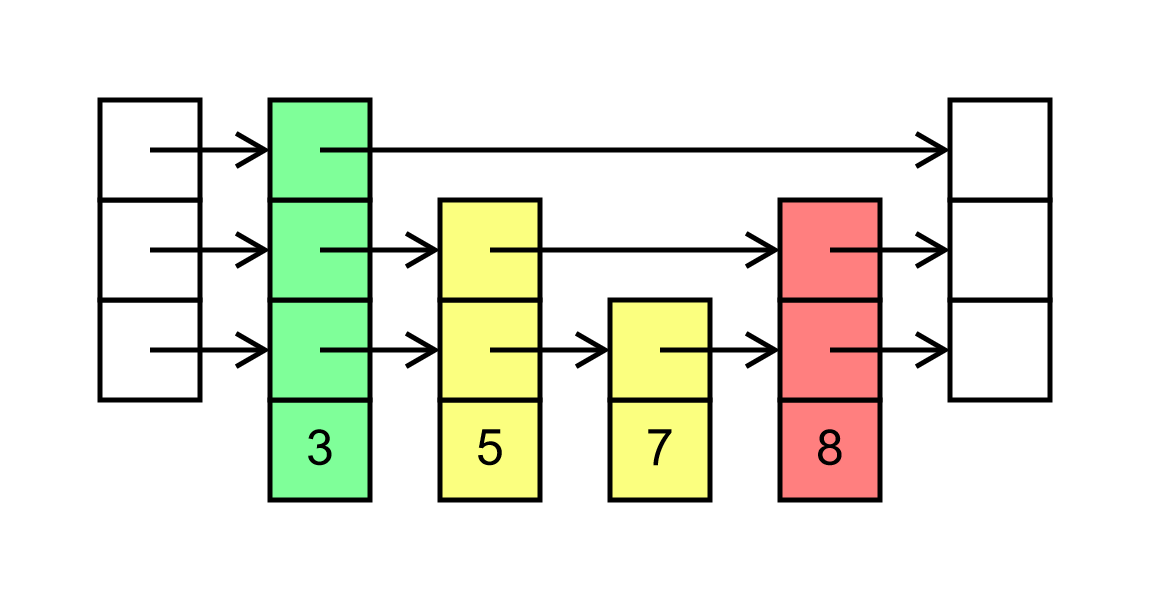
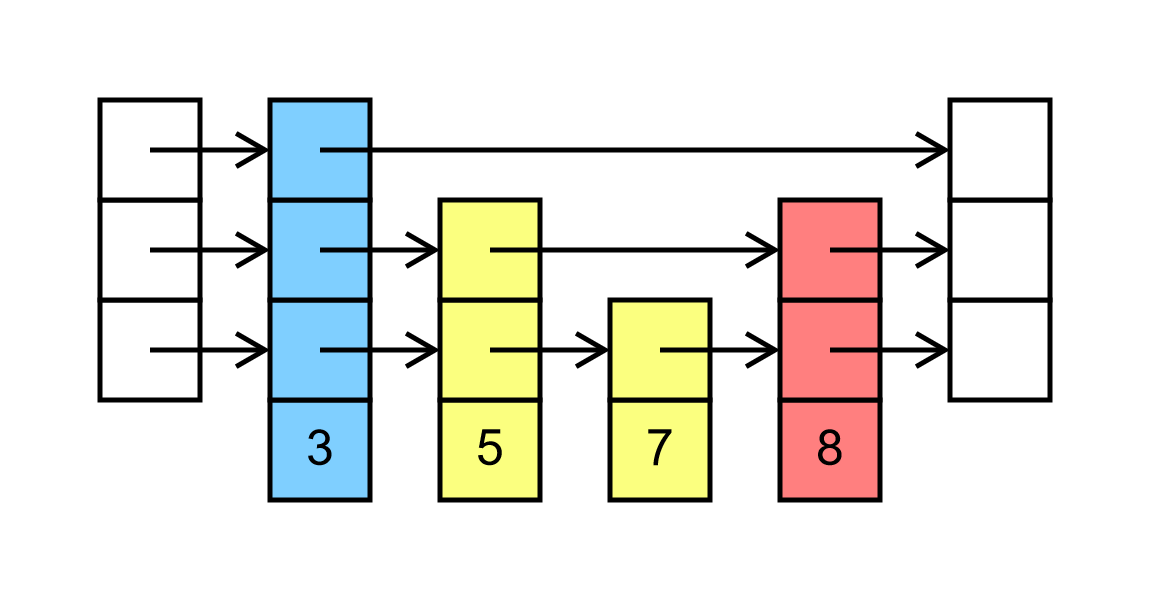
tutorium09: second revision + improved solution

Changed region(s): [[0.213, 0.15, 0.3348, 0.84]]

diff --git a/tutorium09/skip_list_visualization/index.js b/tutorium09/skip_list_visualization/index.js
@@ -35,7 +35,7 @@ document.querySelectorAll(".list").forEach(el => {
     for (const node of nodes) {
         ctx.fillStyle = "white";
         if (green.includes(node[0])) {
-            ctx.fillStyle = "#7fff99";
+            ctx.fillStyle = "#7fcfff";
         }
         if (red.includes(node[0])) {
             ctx.fillStyle = "#ff7f7f";

diff --git a/tutorium09/tutorium09.tex b/tutorium09/tutorium09.tex
@@ -39,21 +39,21 @@ Bei Fragen oder Unklarheiten kontaktieren Sie bitte den Tutor oder Dozenten in T
         Es werden $150$ Werte mithilfe einer gleichmäßig verteilenden Hashfunktion eingefügt.
         Berechnen Sie die Wahrscheinlichkeit, dass ein bestimmter Platz der Tabelle nach dem Einfügen genau ein Element enthält.
         \item Sei $X$ die Anzahl der Plätze der obigen Tabelle, die nach Einfügen von 150 Werten genau ein Element enthalten.
-        Berechnen Sie $E[X]$ mithilfe des 5-Punkte-Plans und des Ergebnisses der vorherigen Teilaufgabe (Wenn Sie die vorherige Aufgabe nicht lösen konnten, verwenden Sie $P(\text{ein Element}) = \frac{1}{3}$).
+        Berechnen Sie $E[X]$ mithilfe des \quotes{5-Punkte-Plans} und des Ergebnisses der vorherigen Teilaufgabe~(Wenn Sie die vorherige Aufgabe nicht lösen konnten, verwenden Sie $P(\text{ein Element}) = \frac{1}{3}$).
     \end{enumerate}
 \end{aufgabe}
 
 \begin{loesung}
     \begin{enumerate}
         \item Betrachten wir zunächst den Fall, dass der erste der 150 Werte in den gewünschten Platz einsortiert wird und alle weiteren 149 Elemente in einen anderen.
-        Die Wahrscheinlichkeit, dass ein Wert in den richtigen Platz einsortiert wird, ist $\frac{1}{100}$, die Wahrscheinlichkeit, dass es ein anderer Platz ist, $\frac{99}{100}$.
+        Die Wahrscheinlichkeit, dass ein Wert in den rich\-ti\-gen Platz einsortiert wird, ist $\frac{1}{100}$, die Wahrscheinlichkeit, dass es ein anderer Platz ist, $\frac{99}{100}$.
         Da alle Werte unabhängig voneinander einsortiert werden, können die Wahrscheinlichkeiten für alle Werte einfach multipliziert werden.
         Die Wahrscheinlichkeit dafür, dass der erste der 150 Werte in den gewünschten Platz einsortiert wird und alle weiteren 149 Elemente in einen anderen, beträgt also $\frac{1}{100}\cdot \left(\frac{99}{100}\right)^{149}$.
 
         Jetzt muss der eine Wert, der in den gewünschten Platz einsortiert wird, aber nicht unbedingt der erste sein, sondern es kann jeder der 150 Werte sein.
         Da sich die Wahrscheinlichkeiten der einzelnen Plätze jedoch für die anderen Werte nicht ändern, gilt die obige Wahrscheinlichkeit für alle 150 Werte.
 
-        Es muss noch die Wahrscheinlichkeit berechnet werden, dass mindestens eines der obigen 150 Ereignisse eintritt.
+        Es muss nur noch die Wahrscheinlichkeit berechnet werden, dass mindestens eines der obigen 150 Ereignisse eintritt.
         Allerdings sind alle Ereignisse disjunkt (es kann maximal eines eintreten).
         Daher reicht es, alle 150 Wahrscheinlichkeiten aufzusummieren.
         Das finale Ergebnis ist also $150 \cdot \frac{1}{100}\cdot \left(\frac{99}{100}\right)^{149} \approx 33.6\%$. 
@@ -103,7 +103,7 @@ Bei Fragen oder Unklarheiten kontaktieren Sie bitte den Tutor oder Dozenten in T
         % 0, 1
         % 1, 2
         % 4, 1
-        \item Zeigen Sie mittels des 5-Punkte-Plans, dass die erwartete Höhe eines Werte einer Skip-Liste 2 beträgt, indem Sie die folgenden Zählvariablen verwenden:
+        \item Zeigen Sie mittels des \quotes{5-Punkte-Plans}, dass die erwartete Höhe eines Wertes einer Skip-Liste 2 beträgt, indem Sie die folgenden Zählvariablen verwenden:
         \begin{equation*}
             X_i = \begin{cases}
                 1 & \text{der Wert hat mindestens Höhe $i$} \\
@@ -121,7 +121,7 @@ Bei Fragen oder Unklarheiten kontaktieren Sie bitte den Tutor oder Dozenten in T
 
 \begin{loesung}
     \begin{enumerate}
-        \item \ \\
+        \item Im folgenden sind Knoten, auf die lesend zugegriffen wird, blau, Knoten, auf die schreibend zugegriffen wird, rot, und Knoten, auf die sowohl lesend als auch schreibend zugegriffen wird, gelb markiert.
         \begin{figure}[h!]
             \centering
             \begin{subfigure}[b]{0.3\textwidth}
@@ -219,15 +219,15 @@ Bei Fragen oder Unklarheiten kontaktieren Sie bitte den Tutor oder Dozenten in T
             \item[Einfügen] 
             Beim Einfügen wird ja entlang der Zeiger in der Skip-Liste gesprungen, um die Position zu erreichen, an die der Wert eingefügt werden soll.
             Durch die zusätzlichen Werte, die beschreiben, wie viele Werte bei jedem Springen übersprungen werden, kann man leicht feststellen, an welche Position der neue Wert eingefügt wird, indem man die Werte für alle Zeiger, die fürs Einfügen durchlaufen werden, aufsummiert und dazu noch alle Knoten mitzählt, die man fürs Einfügen passiert.
-            Anschließend geht man erneut den Weg zum eingefügten Knoten.
+            Nach dem Einfügen geht man erneut den Weg zum eingefügten Knoten.
             Die Werte zu allen Zeigern, die den eingefügten Knoten überspringen, erhöht man um 1.
             Für jeden Zeiger, den man zuvor beim Einfügen aktualisiert hat, kennt man durch das oben beschriebene Verfahren die Position des zugehörigen Knotens.
-            Aus dem ursprünglichen Überspring-Wert des Zeigers, dessen Position und der Position des eingefügten Wertes kann man die Werte der beiden neuen Werte leicht berechnen.
+            Aus dem ursprünglichen Überspring-Wert des Zeigers, dessen Position und der Position des eingefügten Wertes kann man die beiden neuen Werte leicht berechnen.
             Dabei geht man wie in folgendem Beispiel vor:
             Ein Zeiger des Knotens an Position 3 übersprang vor dem Einfügen 10 Werte und zeigte somit auf Position 14 ($=3 + 10 + 1$).
             Jetzt wurde ein neuer Wert an Position 7 eingefügt und der Zeiger zeigt auf diesen eingefügten Wert.
             Damit überspringt der Zeiger nun $7 - 3 - 1 = 4$ Werte.
-            Der neue Wert (an Position 7) zeigt ja jetzt auf Position 14 und überspringt dadurch $14 - 7 - 1 = 6$.
+            Der neue Wert (an Position 7) zeigt ja jetzt auf Position 14 und überspringt dadurch $14 - 7 - 1 = 6$ Werte.
             
             Man muss den Pfad zum eingefügten Wert also nur zweimal durchlaufen.
             An jeder Position des Pfads wird weiterhin nur konstante Laufzeit benötigt.
@@ -300,10 +300,10 @@ int kthSmallestValue(SkipList *list, int k) {
 \begin{aufgabe}{3}{Textsuche}
     \begin{enumerate}[label=\alph*)]
         \item Betrachten Sie das Muster \texttt{BEENDEN}.
-        Wie ist die \texttt{shift}-Funktion für dieses Muster bei Verwendung der Bad-Character-Strategie definiert?
+        Wie ist die \texttt{shift}-Funktion für dieses Muster mit $\Sigma = \{A, B, \ldots, Z\}$ bei Verwendung der Bad-Character-Strategie definiert?
         Sie dürfen alle Zeichen, die nicht im Muster enthalten sind, zusammenfassen.
         \item Betrachten Sie die Muster \texttt{KENNEN} und \texttt{NENNEN}.
-        Geben Sie für jede Position des Musters an, um viel viele Zeichen das Muster gemäß der Good-Suffix-Strategie verschoben werden darf, wenn es an dieser Position zu einer Nichtübereinstimmung kommt.
+        Geben Sie für beide Muster und für jede Position an, um viel viele Zeichen das jeweilige Muster gemäß der Good-Suffix-Strategie verschoben werden darf, wenn es an dieser Position zu einer Nichtübereinstimmung kommt.
         \item Suchen Sie das Muster \texttt{TAGCAGC} in der Zeichenkette \texttt{TATGCAAGCTGCCATGCTGTAGCAGC} mittels Naiver Suche und mithilfe des Boyer-Moore-Algorithmus inklusive bad-character und good-suffix.
         Wie viele Vergleiche benötigen Sie jeweils?
         \item 
@@ -365,7 +365,7 @@ int kthSmallestValue(SkipList *list, int k) {
         Beschreiben Sie den Automaten eindeutig, zum Beispiel, indem Sie dessen Transitionsgraph angeben.
         \item Betrachten Sie folgenden Suchalgorithmus:
         Sämtliche Teilstrings des zu durchsuchenden Texts werden in einer Hashtabelle abgespeichert (bei \quotes{abc} also z.B. \quotes{a}, \quotes{b}, \quotes{c}, \quotes{bc}, \quotes{ab}, \quotes{abc}).
-        Wenn nun überprüft werden soll, ob ein Muster im Text enthalten ist, muss anschließend nur überprüft werden, ob das Muster in der Hashtabelle liegt.
+        Wenn nun ein Muster im Text gesucht werden soll, muss nur überprüft werden, ob das Muster in der Hashtabelle liegt.
         Geben Sie folgende Funktionen in $O$-Notation an, jeweils abhängig von der Länge des Textes $n$ und der Länge des Musters $m$:
         \begin{enumerate}[label=\roman*)]
             \item die durchschnittliche Laufzeit zum Erstellen der Hashtabelle,
@@ -378,9 +378,10 @@ int kthSmallestValue(SkipList *list, int k) {
             \item[Hinweis 2:] Die durchschnittliche Länge aller Teilstrings eines Strings der Länge $n$ beträgt $\Theta(n)$.
         \end{description}
         \item Ein Anagramm eines Wortes ist eine beliebige Permutation der Buchstaben dieses Wortes.
+        Zum Beispiel ist \texttt{REIFEN} ein Anagramm von \texttt{FERIEN}.
         Implementieren Sie einen Algorithmus in Pseudocode oder einer Programmiersprache Ihrer Wahl, welcher einen Text sowie ein Muster als Eingabe erhält, und ausgibt, wie viele Anagramme des eingegebenen Musters im Text vorkommen.
         Die Laufzeit des Algorithmus soll $O(n \cdot |\Sigma|)$ betragen, wobei $n$ die Länge des Textes ist und $|\Sigma|$ die Größe des Alphabets.
-        Weisen Sie nach, dass Ihr Algorithmus die angegebene Laufzeit besitzt.
+        Argumentieren Sie, warum Ihr Algorithmus die angegebene Laufzeit besitzt.
         \begin{description}
             \item[Tipp:] Zählen Sie, wie oft jedes Zeichen des Alphabets im Muster vorkommt.
         \end{description}
@@ -532,8 +533,8 @@ LEBE\underline{N}
         Bei naiver Suche wird an jeder Position bereits nach einem Vergleich erkannt, dass sich das Muster nicht an der Position befindet.
         Das macht insgesamt 11 Vergleiche.
         Bei Boyer-Moore wird an einer Position erst nach 5 Vergleichen erkannt, dass sich das Muster nicht an der Position befindet.
-        Durch die Bad-Character-Strategie wird das Muster aber wieder nur eine Position nach rechts verschoben (wenn zusätzlich noch Good-Suffix verwendet worden wäre, wären es 5 Positionen, also genau so gut wie bei naiver Suche).
-        Es werden also 55 Vergleiche benötigt.
+        Durch die Bad-Character-Strategie wird das Muster aber wieder nur eine Position nach rechts verschoben (wenn zusätzlich noch Good-Suffix verwendet worden wäre, wären es 5 Positionen, genau so gut wie bei naiver Suche).
+        Es werden also insgesamt 55 Vergleiche benötigt.
 
         Die obige Eingabe lässt sich natürlich leicht auf $\text{\texttt{a}}^n$ und $\text{\texttt{b}}\text{\texttt{a}}^{m - 1}$ verallgemeinern.
         Wir schätzen die Laufzeit anhand der Anzahl von benötigten Vergleichen ab:
@@ -544,55 +545,57 @@ LEBE\underline{N}
         \begin{figure}[h!]
             \centering
             \begin{tikzpicture}[scale=0.15]
-            \tikzstyle{every node}+=[inner sep=0pt]
-            \draw [black] (7.8,-28.7) circle (3);
-            \draw (7.8,-28.7) node {$0$};
-            \draw [black] (17.6,-28.7) circle (3);
-            \draw (17.6,-28.7) node {$1$};
-            \draw [black] (27.6,-28.7) circle (3);
-            \draw (27.6,-28.7) node {$2$};
-            \draw [black] (37.6,-28.7) circle (3);
-            \draw (37.6,-28.7) node {$3$};
-            \draw [black] (47.4,-28.7) circle (3);
-            \draw (47.4,-28.7) node {$4$};
-            \draw [black] (57.3,-28.7) circle (3);
-            \draw (57.3,-28.7) node {$5$};
-            \draw [black] (67.5,-28.7) circle (3);
-            \draw (67.5,-28.7) node {$6$};
-            \draw [black] (67.5,-28.7) circle (2.4);
-            \draw [black] (10.8,-28.7) -- (14.6,-28.7);
-            \fill [black] (14.6,-28.7) -- (13.8,-28.2) -- (13.8,-29.2);
-            \draw (12.7,-29.2) node [below] {$a$};
-            \draw [black] (20.6,-28.7) -- (24.6,-28.7);
-            \fill [black] (24.6,-28.7) -- (23.8,-28.2) -- (23.8,-29.2);
-            \draw (22.6,-29.2) node [below] {$b$};
-            \draw [black] (30.6,-28.7) -- (34.6,-28.7);
-            \fill [black] (34.6,-28.7) -- (33.8,-28.2) -- (33.8,-29.2);
-            \draw (32.6,-29.2) node [below] {$c$};
-            \draw [black] (40.6,-28.7) -- (44.4,-28.7);
-            \fill [black] (44.4,-28.7) -- (43.6,-28.2) -- (43.6,-29.2);
-            \draw (42.5,-29.2) node [below] {$a$};
-            \draw [black] (50.4,-28.7) -- (54.3,-28.7);
-            \fill [black] (54.3,-28.7) -- (53.5,-28.2) -- (53.5,-29.2);
-            \draw (52.35,-29.2) node [below] {$b$};
-            \draw [black] (60.3,-28.7) -- (64.5,-28.7);
-            \fill [black] (64.5,-28.7) -- (63.7,-28.2) -- (63.7,-29.2);
-            \draw (62.4,-29.2) node [below] {$a$};
-            \draw [black] (30.14,-27.105) arc (119.68121:60.31879:35.16);
-            \fill [black] (30.14,-27.11) -- (31.08,-27.14) -- (30.59,-26.27);
-            \draw (47.55,-21.99) node [above] {$b$};
-            \draw [black] (55.521,-31.104) arc (-44.1396:-135.8604:11.246);
-            \fill [black] (39.38,-31.1) -- (39.58,-32.03) -- (40.3,-31.33);
-            \draw (47.45,-35.02) node [below] {$c$};
-            \draw [black] (19.232,-26.232) arc (130.08425:49.91575:5.23);
-            \fill [black] (19.23,-26.23) -- (20.17,-26.1) -- (19.52,-25.33);
-            \draw (22.6,-24.5) node [above] {$a$};
-            \draw [black] (15.044,-27.152) arc (266.53724:-21.46276:2.25);
-            \draw (13.02,-22.51) node [above] {$a$};
-            \fill [black] (17.27,-25.73) -- (17.82,-24.96) -- (16.82,-24.9);
-            \draw [black] (45.847,-31.262) arc (-36.40307:-143.59693:16.583);
-            \fill [black] (19.15,-31.26) -- (19.23,-32.2) -- (20.03,-31.61);
-            \draw (32.5,-38.5) node [below] {$a$};
+                \tikzstyle{every node}+=[inner sep=0pt]
+                \draw [black] (10.2,-24.9) circle (3);
+                \draw (10.2,-24.9) node {$0$};
+                \draw [black] (20.4,-24.9) circle (3);
+                \draw (20.4,-24.9) node {$1$};
+                \draw [black] (31.1,-24.9) circle (3);
+                \draw (31.1,-24.9) node {$2$};
+                \draw [black] (41.7,-24.9) circle (3);
+                \draw (41.7,-24.9) node {$3$};
+                \draw [black] (52,-24.9) circle (3);
+                \draw (52,-24.9) node {$4$};
+                \draw [black] (62.5,-24.9) circle (3);
+                \draw (62.5,-24.9) node {$5$};
+                \draw [black] (72.8,-24.9) circle (3);
+                \draw (72.8,-24.9) node {$6$};
+                \draw [black] (13.2,-24.9) -- (17.4,-24.9);
+                \fill [black] (17.4,-24.9) -- (16.6,-24.4) -- (16.6,-25.4);
+                \draw (15.3,-25.4) node [below] {$a$};
+                \draw [black] (23.4,-24.9) -- (28.1,-24.9);
+                \fill [black] (28.1,-24.9) -- (27.3,-24.4) -- (27.3,-25.4);
+                \draw (25.75,-25.4) node [below] {$b$};
+                \draw [black] (34.1,-24.9) -- (38.7,-24.9);
+                \fill [black] (38.7,-24.9) -- (37.9,-24.4) -- (37.9,-25.4);
+                \draw (36.4,-25.4) node [below] {$c$};
+                \draw [black] (44.7,-24.9) -- (49,-24.9);
+                \fill [black] (49,-24.9) -- (48.2,-24.4) -- (48.2,-25.4);
+                \draw (46.85,-25.4) node [below] {$a$};
+                \draw [black] (55,-24.9) -- (59.5,-24.9);
+                \fill [black] (59.5,-24.9) -- (58.7,-24.4) -- (58.7,-25.4);
+                \draw (57.25,-25.4) node [below] {$b$};
+                \draw [black] (65.5,-24.9) -- (69.8,-24.9);
+                \fill [black] (69.8,-24.9) -- (69,-24.4) -- (69,-25.4);
+                \draw (67.65,-25.4) node [below] {$a$};
+                \draw [black] (22.738,-23.058) arc (115.8009:64.1991:6.919);
+                \fill [black] (22.74,-23.06) -- (23.68,-23.16) -- (23.24,-22.26);
+                \draw (25.75,-21.87) node [above] {$a$};
+                \draw [black] (17.766,-23.488) arc (269.5344:-18.4656:2.25);
+                \draw (15.53,-18.91) node [above] {$a$};
+                \fill [black] (19.92,-21.95) -- (20.43,-21.15) -- (19.43,-21.15);
+                \draw [black] (22.178,-22.488) arc (138.98447:41.01553:18.584);
+                \fill [black] (22.18,-22.49) -- (23.08,-22.21) -- (22.33,-21.56);
+                \draw (36.2,-15.6) node [above] {$a$};
+                \draw [black] (60.402,-27.035) arc (-51.00884:-128.99116:13.194);
+                \fill [black] (43.8,-27.04) -- (44.11,-27.93) -- (44.73,-27.15);
+                \draw (52.1,-30.47) node [below] {$c$};
+                \draw [black] (33.664,-23.344) arc (118.97268:61.02732:37.75);
+                \fill [black] (33.66,-23.34) -- (34.61,-23.39) -- (34.12,-22.52);
+                \draw (51.95,-18.12) node [above] {$b$};
+                \draw [black] (70.409,-26.71) arc (-54.94924:-125.05076:41.456);
+                \fill [black] (22.79,-26.71) -- (23.16,-27.58) -- (23.73,-26.76);
+                \draw (46.6,-34.73) node [below] {$a$};
             \end{tikzpicture}
         \end{figure}
         \FloatBarrier
@@ -606,9 +609,10 @@ LEBE\underline{N}
         \end{equation*}
 
         \begin{enumerate}[label=\roman*)]
-            \item Da wir die Durchschnittslaufzeit berechnen wollen, können wir davon ausgehen, dass zum Einfügen nur eine konstante Anzahl an Versuchen nötig ist.
+            \item Da wir die Durchschnittslaufzeit berechnen wollen, können wir davon ausgehen, dass pro Einfügen nur eine konstante Anzahl an Versuchen nötig ist.
             Daher sind für das Einfügen aller Teilstrings insgesamt im Durchschnitt $\Theta(n^2)$ Versuche nötig.
-            Allerdings ist die Laufzeit für Hashing und Vergleich von Strings linear in der Länge des Strings (nach Hinweis 2 $\Theta(n)$).
+            Allerdings ist die Laufzeit für Hashing und Vergleich von Strings nach Hinweis 1 linear in der Länge des Strings.
+            Die durchschnittliche Länge der Strings ist außerdem $\Theta(n)$ nach Hinweis 2.
             Die Laufzeit zum Erstellen der Tabelle beträgt also 
             \begin{equation*}
                 \underbrace{\Theta(n^2)}_{\text{Anzahl Versuche}} \cdot \underbrace{\Theta(n)}_{\text{Zeit pro Versuch}} = \Theta(n^3)
@@ -617,7 +621,7 @@ LEBE\underline{N}
             \emph{Anmerkung:} Je nach verwendeter String-Hashfunktion (siehe Aufgabe 3d von Tutoriumsblatt 8) ist es oft möglich, den Hash für zum Beispiel alle Strings, die mit dem ersten Zeichen des Textes anfangen, Zeichen für Zeichen zu erweitern, ohne den Hash jedes Mal komplett neu berechnen zu müssen.
             Mit dieser Optimierung erreicht man in der Praxis Laufzeit $\Theta(n^2)$
             \item Wir gehen erneut von einer konstanten Anzahl an Versuchen aus.
-            Jeder Versuch benötigt linearen Zeitaufwand im gesuchten String.
+            Jeder Versuch benötigt linearen Zeitaufwand in der Länge des gesuchten Strings.
             Die Laufzeit beträgt also $\Theta(m)$.
             \item Im Worst-Case müssen alle $\Theta(n^2)$ Teilstrings in der Tabelle mit dem Muster verglichen werden.
             Jeder dieser Vergleiche benötigt Laufzeit $\Theta(m)$.
@@ -644,9 +648,13 @@ LEBE\underline{N}
             \begin{equation*}
                 \frac{n}{2} \cdot \left( \frac{n^2}{8} + \frac{n}{4} \right) = \frac{n^3}{16} + \frac{n^2}{8}
             \end{equation*}
-            beträgt. Und das wiederum bedeutet, dass der die durchschnittliche Stringlänge aller Teilstrings mindestens 
+            beträgt. 
+            Da es sich um eine Teilmenge aller Teilstrings handelt, ist die Summe der Längen aller Teilstrings ebenfalls mindestens $\frac{n^3}{16} + \frac{n^2}{8}$.
+            Und das wiederum bedeutet, dass der die durchschnittliche Stringlänge aller Teilstrings mindestens 
             \begin{equation*}
                 \frac{\frac{n^3}{16} + \frac{n^2}{8}}{\frac{(n + 1) \cdot n}{2} }
+                =
+                \frac{\frac{n^3}{8} + \frac{n^2}{4}}{(n + 1) \cdot n}
                 \leq 
                 \frac{\frac{n^3}{8} + \frac{n^2}{4}}{n^2} = \frac{n}{8} + \frac{1}{4} = \Omega(n)
             \end{equation*}
@@ -654,16 +662,16 @@ LEBE\underline{N}
         \end{proof}
 
         \item
-        Zunächst wird ein Array \texttt{anagram} erstellt, dessen Größe der $|\Sigma|$ entspricht.
+        Zunächst wird ein Array \texttt{anagram} erstellt, dessen Größe $|\Sigma|$ entspricht.
         In diesem wird gespeichert, welches Zeichen im Muster wie oft vorkommt.
         Die Idee ist nun, für jeden $m$-Zeichen-langen Bereich im Text ebenfalls zu zählen, welches Zeichen wie oft vorkommt.
         Stimmt die Zählung mit der des Musters überein, wurde ein Anagramm des Musters gefunden.
-        Würde man naiv für jeden Bereich die Buchstaben zählen, wäre dies allein schon Aufwand $O(nm)$, was für die verlangte Laufzeit zu viel ist.
+        Würde man naiv für jeden Bereich die Buchstaben zählen, wäre dies allein schon Aufwand $O(nm)$, also mehr als die verlangte Laufzeit.
         Der Trick ist, zunächst die Vorkommen der Zeichen im ersten Bereich, welcher mit dem ersten Zeichen des Textes beginnt, zu zählen und diese in einem Array (\texttt{rolling}) abzuspeichern.
         Anschließend schiebt man den Bereich Zeichen für Zeichen über den Text und verringert jeweils den Zähler des Zeichens, welches den Bereich verlässt, um 1 und erhöht den Zähler des Zeichens, welches neu im Bereich hinzukommt, um 1.
-        Somit kann man \texttt{rolling} für jeden weiteren Bereich in konstanter Zeit aktualisieren.
+        Somit kann man \texttt{rolling} für jedes Verschieben des Bereichs  in konstanter Zeit aktualisieren.
         Um zu prüfen, ob ein Anagramm gefunden wurde, muss überprüft werden, ob die Werte der beiden Arrays \texttt{anagram} und \texttt{rolling} übereinstimmen.
-        Dieser Vergleich benötigt Aufwand $O(|\Sigma|)$.
+        Dieser Vergleich benötigt Aufwand in der Länge der Arrays, also $O(|\Sigma|)$.
         Dieser Aufwand muss für jeden Bereich durchgeführt werden.
         Macht insgesamt Aufwand $O(n\cdot|\Sigma|)$.
         \begin{lstlisting}[language=c++]
@@ -695,19 +703,19 @@ int countAnagrams(char text[], int n, char pattern[], int m) {
     return count;
 }
         \end{lstlisting}
-        Wie oben beschrieben, benötigt die letzte Schleife Aufwand $O(n \cdot |\Sigma|)$.
+        Wie oben beschrieben, benötigt die letzte Schleife, in der die Anagramme schlussendlich gezählt werden, Aufwand $O(n \cdot |\Sigma|)$.
         Bleibt noch der Initalisierungsaufwand.
         Dieser beträgt zusätzlich noch $O(|\Sigma|)$ für das Initialisieren von \texttt{anagram} und \texttt{rolling}, was für $n \geq 1$ in $O(n\cdot |\Sigma|)$ untergeht, und $O(m)$ für das Zählen der Zeichen des Musters.
         Dies fällt im $O$-Kalkül nur dann ins Gewicht, wenn $m > n$.
         Wenn $m > n$, ist aber das Muster länger als der Text und damit sicherlich kein Anagramm im Text enthalten.
-        Daher wird in diesem Fall vorzeitig abgebrochen, sodass Aufwand $O(m)$ für die finale Laufzeit $O(n |\Sigma|)$ keine Rolle spielt.
+        Daher wird in diesem Fall vorzeitig abgebrochen, sodass Aufwand $O(m)$ für die finale Laufzeit $O(n \cdot |\Sigma|)$ keine Rolle spielt.
 
         Um die Laufzeit nun noch auf $O(n + |\Sigma|)$ zu verbessern, muss das Vergleichen der beiden Zählarrays optimiert werden, da dieses den Faktor $|\Sigma|$ in $O(n \cdot |\Sigma|)$ ausmacht.
         Der Trick hierbei ist, eine Variable \texttt{rollingMatch} hinzuzufügen, welche zählt, wie viele der $|\Sigma|$ Werte der Zählarrays bereits übereinstimmen.
         Bei jedem Verschieben des Bereichs ändern sich nur zwei Werte im Zählarray.
         Für jeden dieser beiden Werte wird überprüft, ob er nun den gewünschten Wert hat oder ob er vorher bereits den gewünschten Wert hatte, aber jetzt nicht mehr.
         \texttt{rollingMatch} wird anschließend entsprechend aktualisiert.
-        Sobald $\text{\texttt{rollingMatch}} = |\Sigma|$, stimmen die Zählarrays überein und es wurde ein Anagramm gefunden.
+        Sobald $\text{\texttt{rollingMatch}} = |\Sigma|$, stimmen die Zählarrays überein und ein Anagramm wurde gefunden.
         \begin{lstlisting}[language=c++]
 int countAnagrams(char text[], int n, char pattern[], int m) {
     if (m > n) {
@@ -726,7 +734,6 @@ int countAnagrams(char text[], int n, char pattern[], int m) {
     }
     if (rollingMatch == SIGMA_SIZE) count++;
     for (int i = m; i < n; i++) {
-        printArray(rolling, 3);
         int oldIndex = getIndex(text[i - m]);
         int newIndex = getIndex(text[i]);
         rolling[oldIndex]--;
@@ -737,7 +744,6 @@ int countAnagrams(char text[], int n, char pattern[], int m) {
         if (rolling[newIndex] == anagram[newIndex] + 1) rollingMatch--;
         if (rollingMatch == SIGMA_SIZE) count++;
     }
-    printArray(rolling, 3);
     return count;
 }
         \end{lstlisting}
